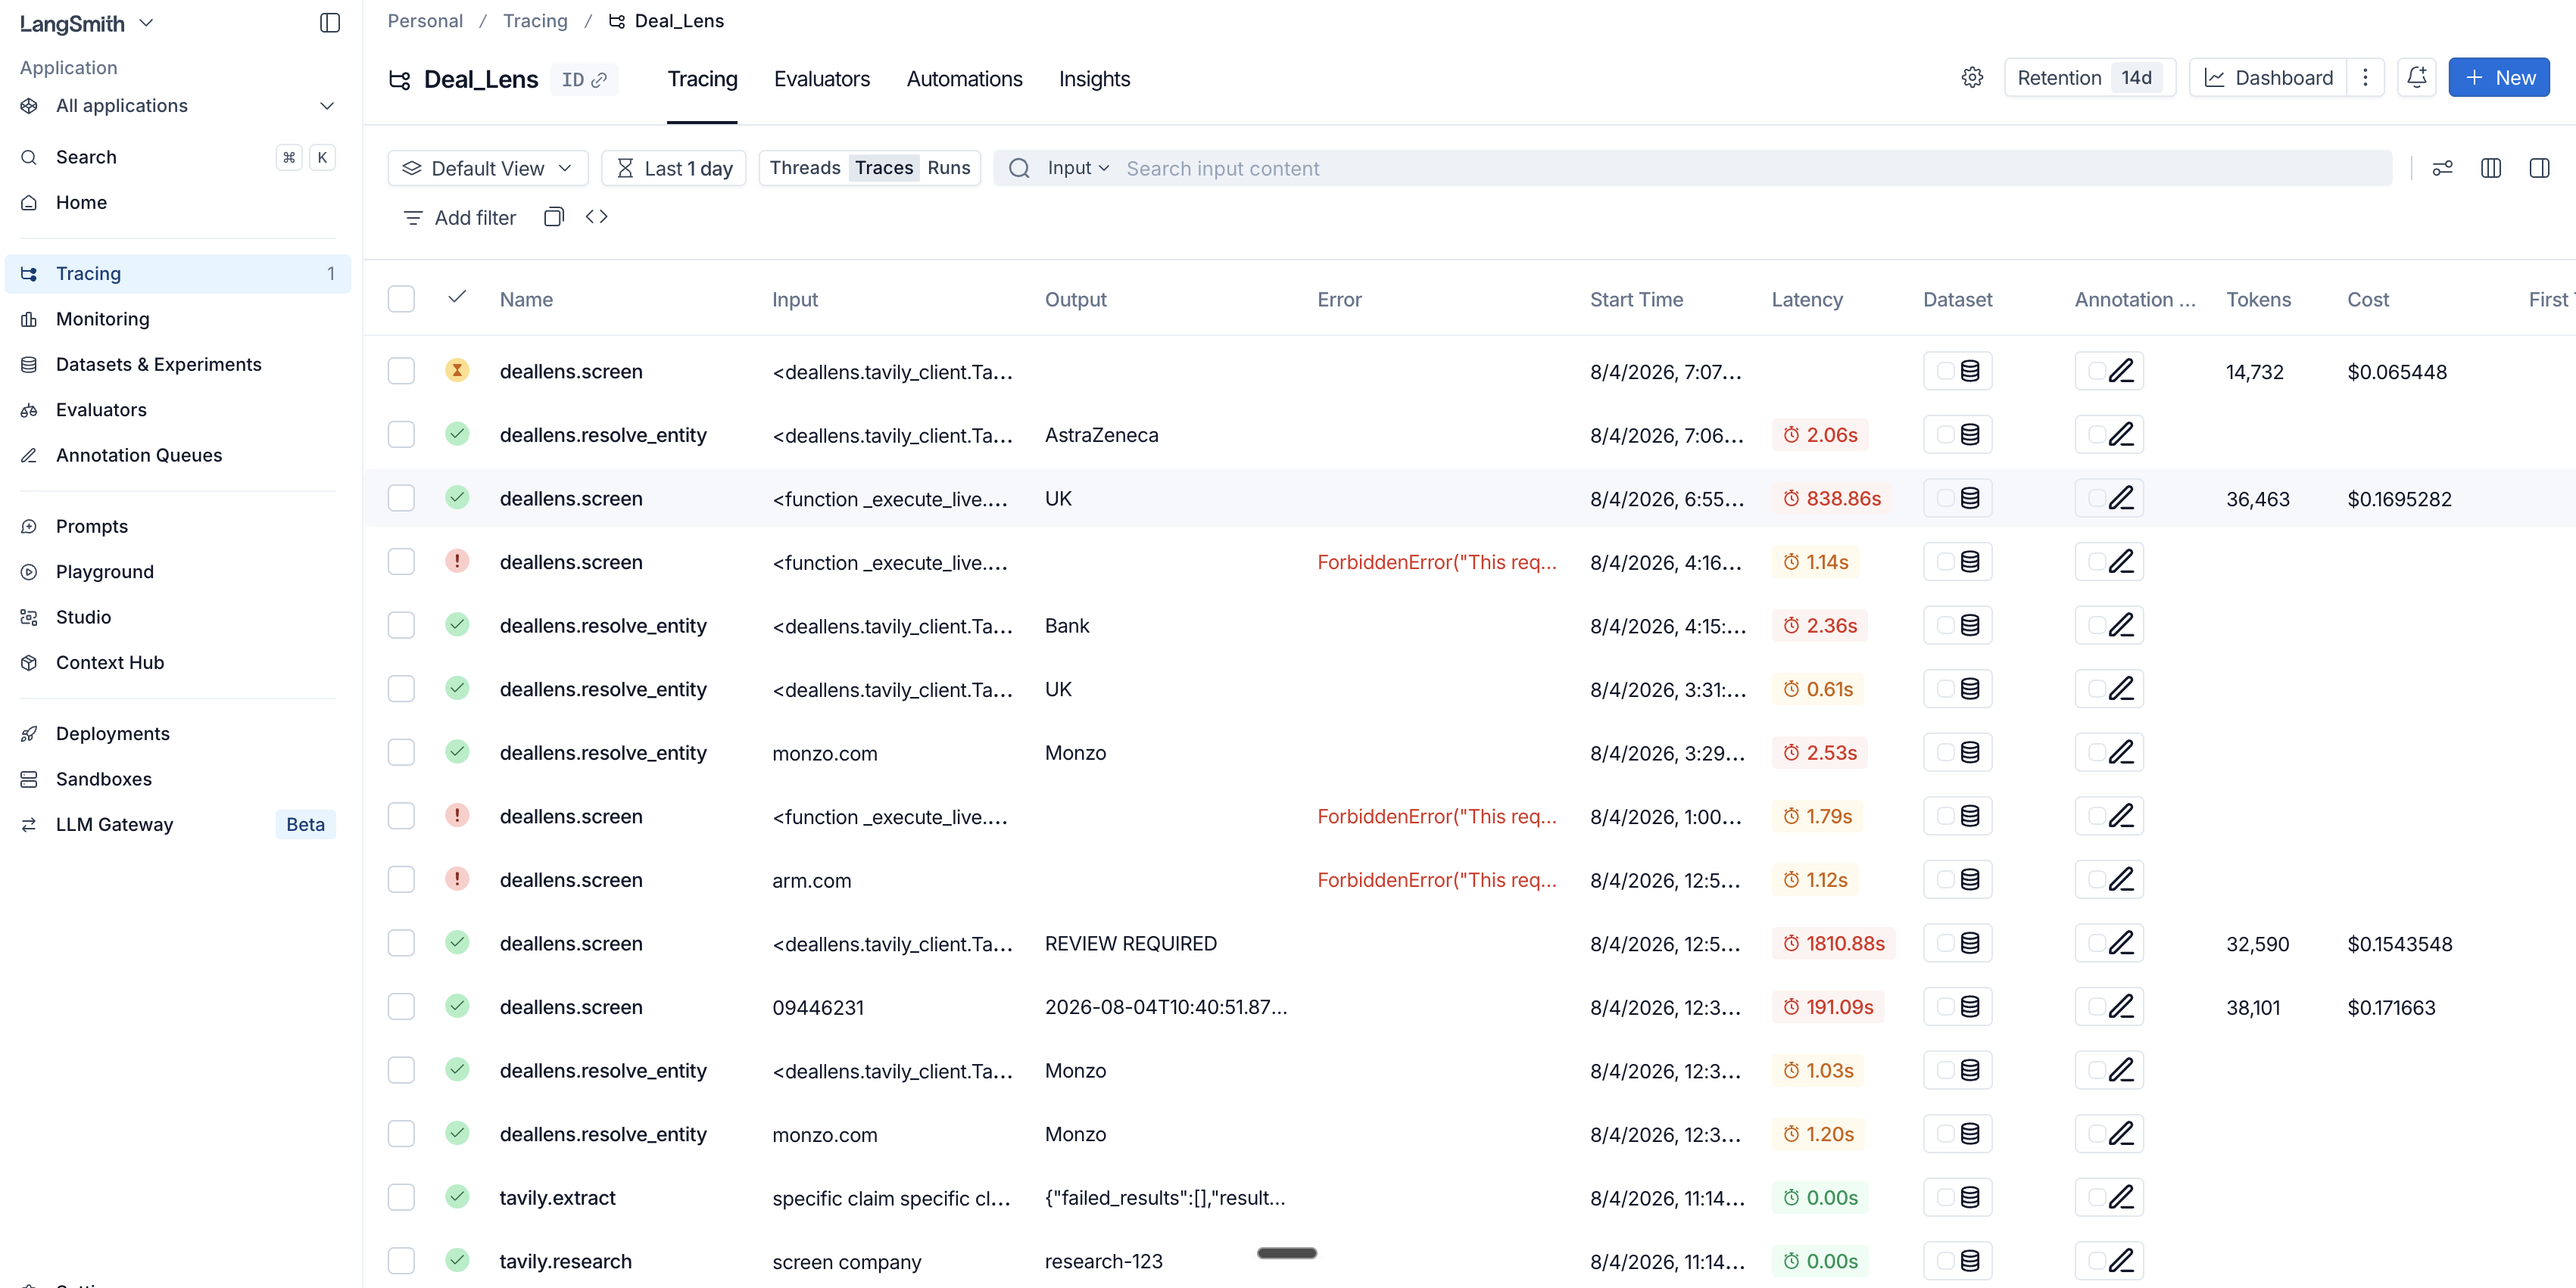
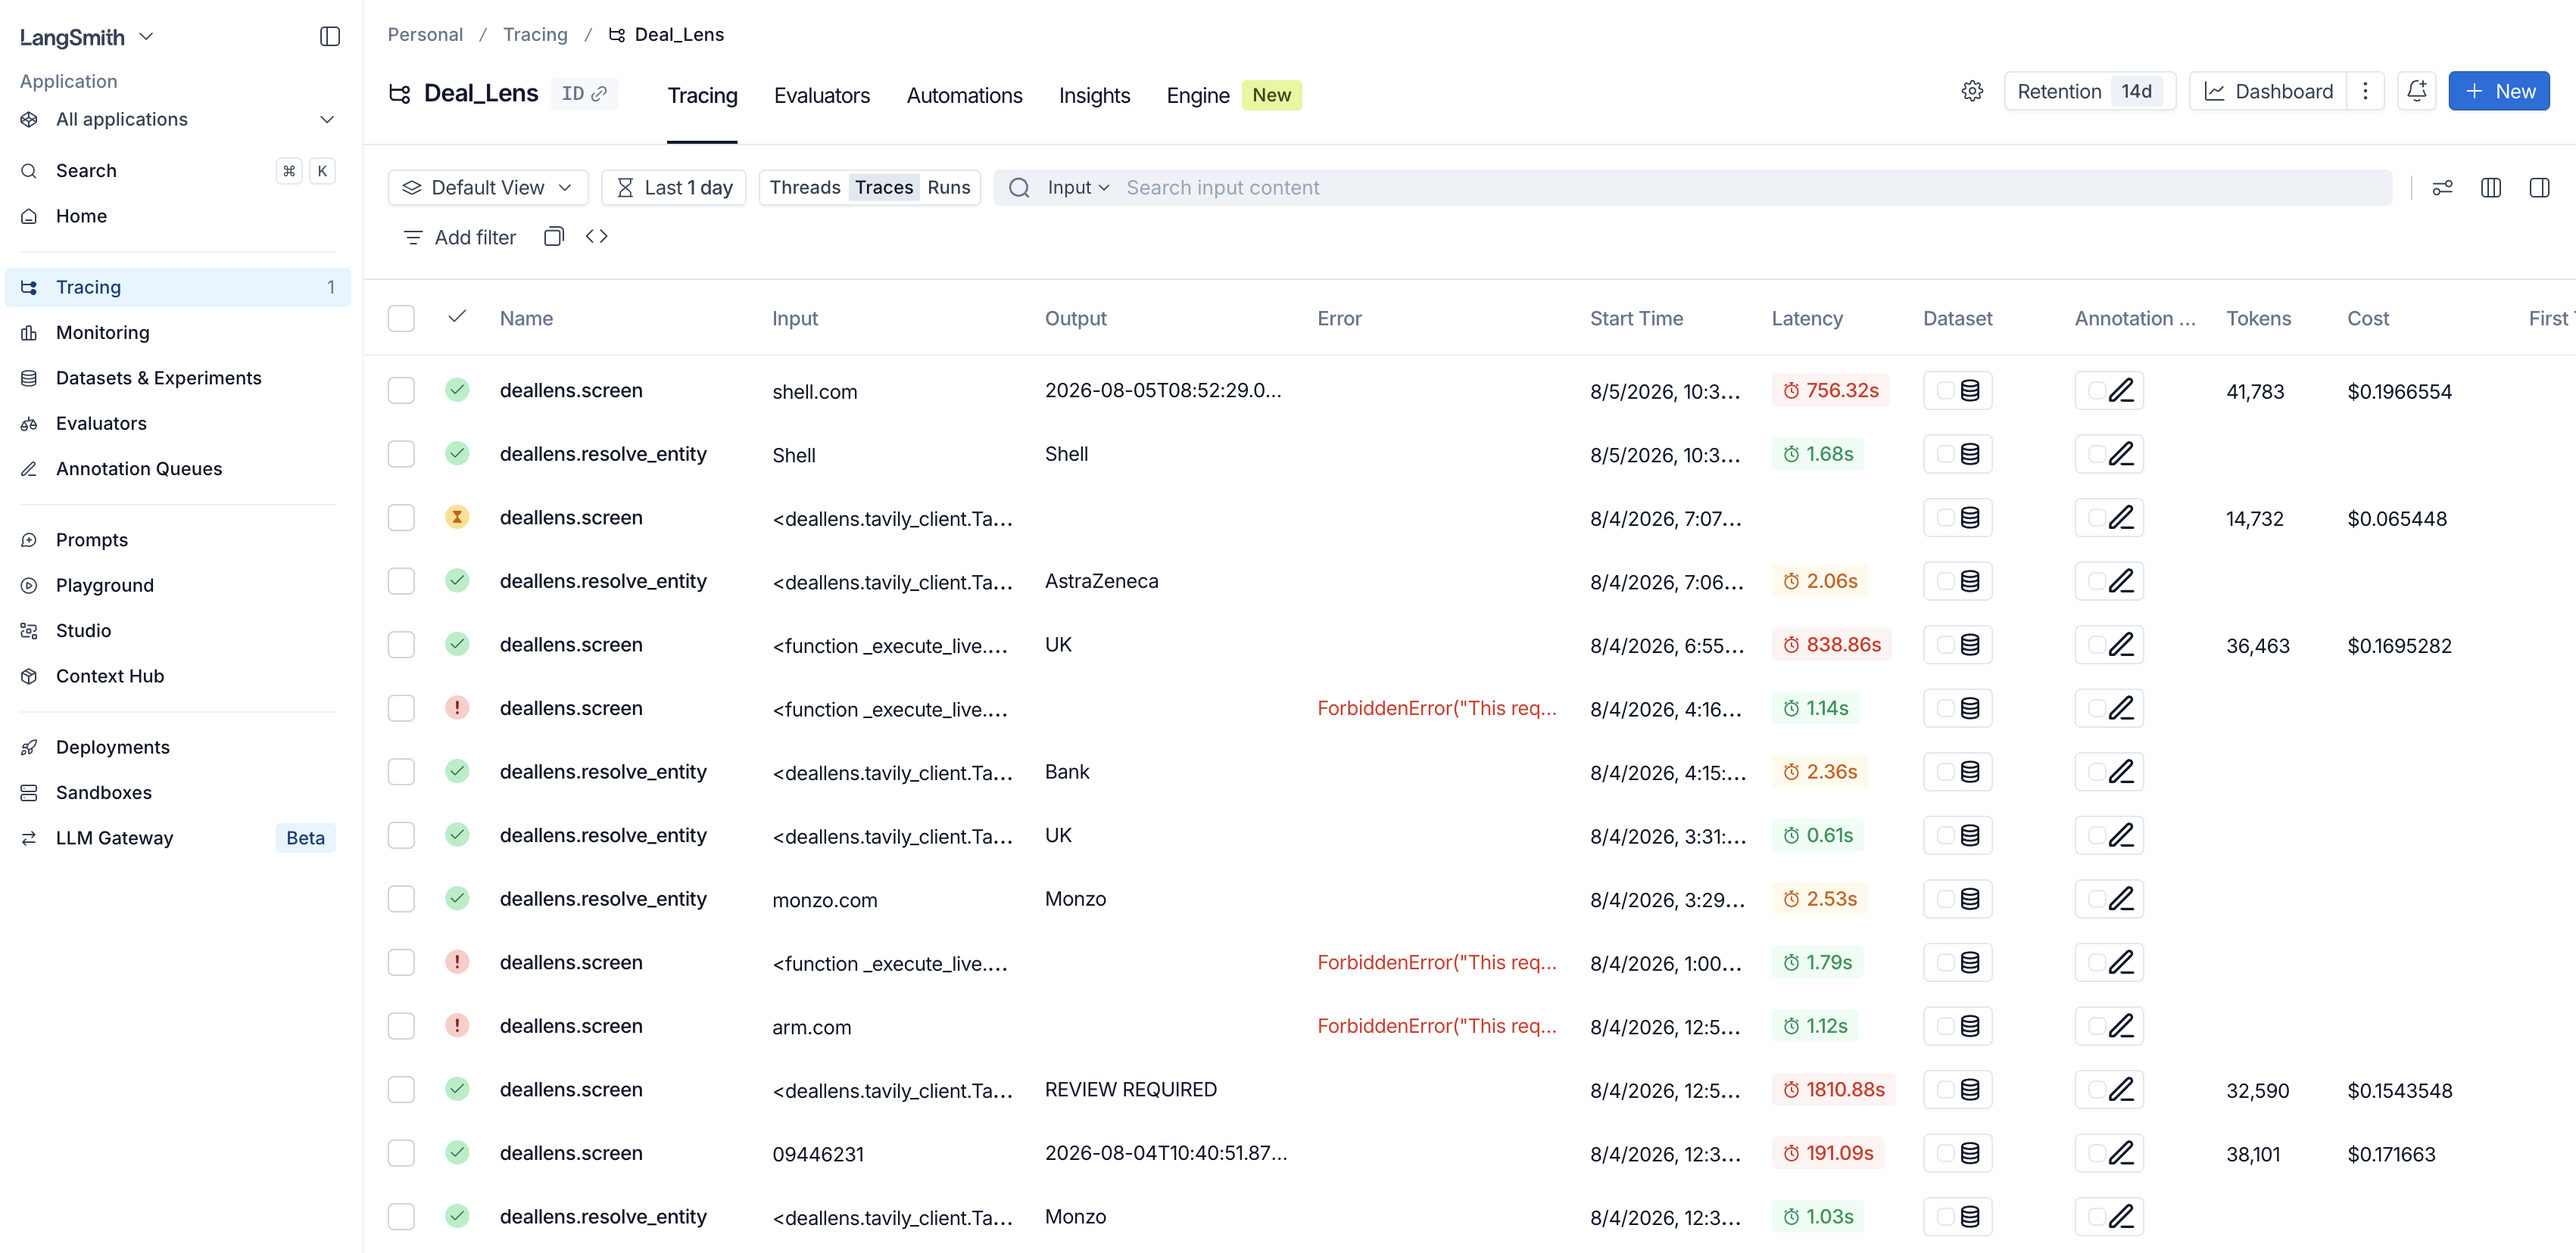
Document limitations and refresh observability proof

diff --git a/README.md b/README.md
@@ -200,15 +200,16 @@ LANGSMITH_ENDPOINT="https://eu.api.smith.langchain.com"
 Tests force tracing off before importing application modules, so fixtures do
 not pollute the production project. See [docs/LANGSMITH.md](docs/LANGSMITH.md)
 for the span contract and the verified Monzo v0.2 run (`204` spans, `0`
-errors). The next live verification will record the v0.3 Map and country-aware
-Search spans rather than rewriting the historical run.
+errors). The trace history below also shows the latest successful Shell screen;
+a nested-span verification will record its v0.3 Map and country-aware Search
+behavior without rewriting the historical Monzo run.
 
 ![LangSmith trace history for the live DealLens application](docs/assets/langsmith-trace-history.png)
 
 *LangSmith EU captures successful and failed entity-resolution and screening
-runs with per-run status, latency, token, and cost data. The verified Monzo root
-shown here completed in 191.09 seconds; its nested 204-span contract is recorded
-in `docs/langsmith-verification.json`.*
+runs with per-run status, latency, token, and cost data. The latest successful
+Shell screen appears at the top; the verified Monzo nested-span contract remains
+recorded in `docs/langsmith-verification.json`.*
 
 **Build log:** [Review the sanitized implementation record](BUILD_LOG.md).
 
@@ -426,19 +427,35 @@ Submission documents:
 - [docs/LANGSMITH.md](docs/LANGSMITH.md) — trace hierarchy and validation.
 - [BUILD_LOG.md](BUILD_LOG.md) — product and implementation decisions.
 
-## Deliberate MVP boundaries
+## Current limitations and future enhancements
 
-- UK Companies House is the only tested automatic entity resolver. The NL pack
-  demonstrates configuration shape but does not claim registry resolution.
+The MVP prioritizes evidence quality and a reviewable single-analyst workflow.
+The highest-value extensions are:
+
+1. **Syndicated wire-content deduplication.** Publisher independence is
+   currently determined at the domain level. If two news domains carry the
+   same Reuters or AP copy, they can count as two secondary sources even though
+   the underlying reporting is identical. A production extension would
+   normalize extracted article text, cluster near-duplicates with MinHash/LSH
+   or TF-IDF similarity, and count each content cluster as one independent
+   publisher unit in the evidence gate.
+2. **Jurisdiction and registry expansion.** UK Companies House is the only
+   tested automatic entity resolver; the NL pack demonstrates the configuration
+   shape but does not claim registry resolution. Registry adapters for US SEC
+   EDGAR, the Delaware Division of Corporations, and EU member-state registries
+   would extend entity resolution and source governance to international deals
+   without hardcoding jurisdiction behavior into prompts.
+3. **Durable multi-tenant persistence.** Active jobs currently live in worker
+   memory, while memo archives and reports use container-local storage. Moving
+   job coordination to Postgres/Redis and report artifacts to Cloud Storage
+   would support multiple users, restarts, and horizontally scaled Cloud Run
+   instances.
+
+Other deliberate boundaries remain:
+
 - News articles do not contain a universal entity identifier; similarly named
   groups still require analyst judgment.
-- Syndicated copy on genuinely different configured publisher domains may
-  count twice; near-duplicate clustering is future work.
 - `/research` is used for recall, not accepted as evidence by itself.
-- Storage is local JSON/Markdown for this single-analyst MVP, with PDFs
-  generated on demand from the typed result. MongoDB was
-  deliberately deferred; adding infrastructure would not strengthen the core
-  retrieval/evidence assignment.
 - Tavily Crawl is not used. Map locates bounded first-party disclosure URLs,
   Search locates external claim-relevant sources, and Extract captures only a
   small deterministic set. Broad crawling would add content without
